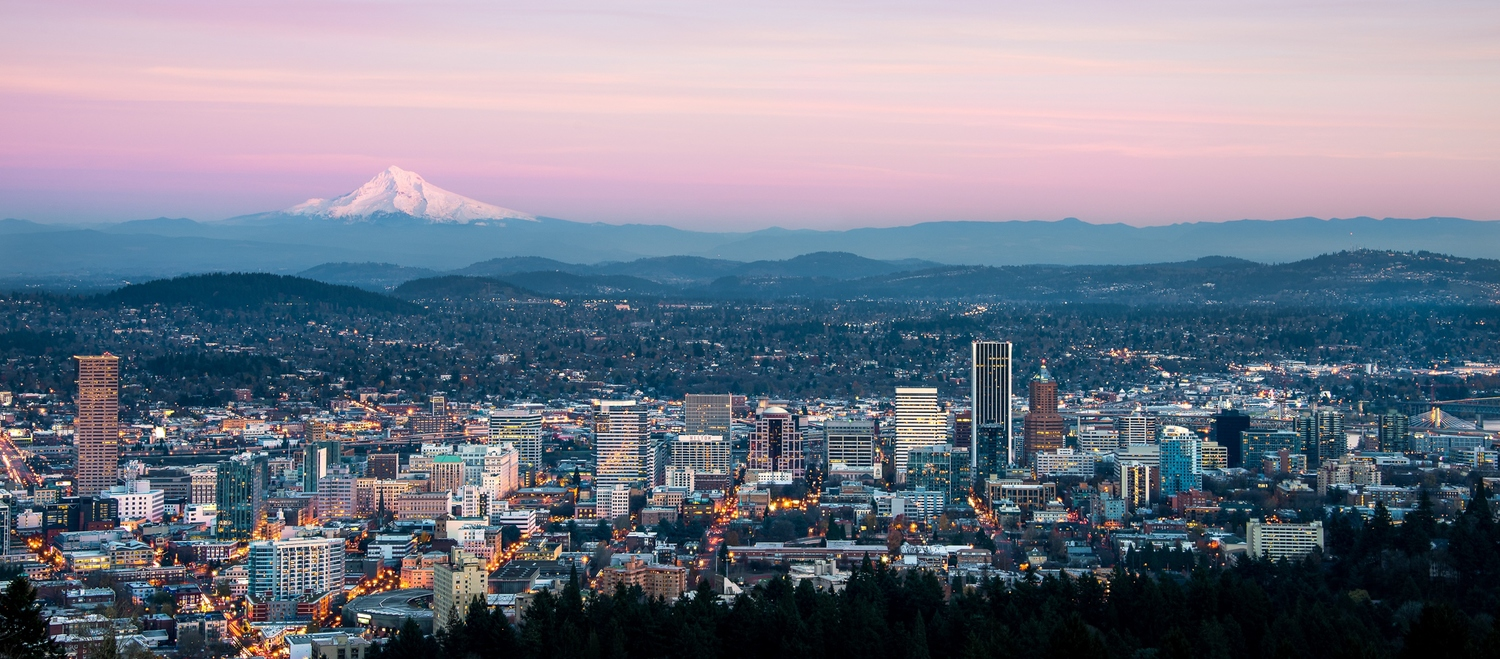
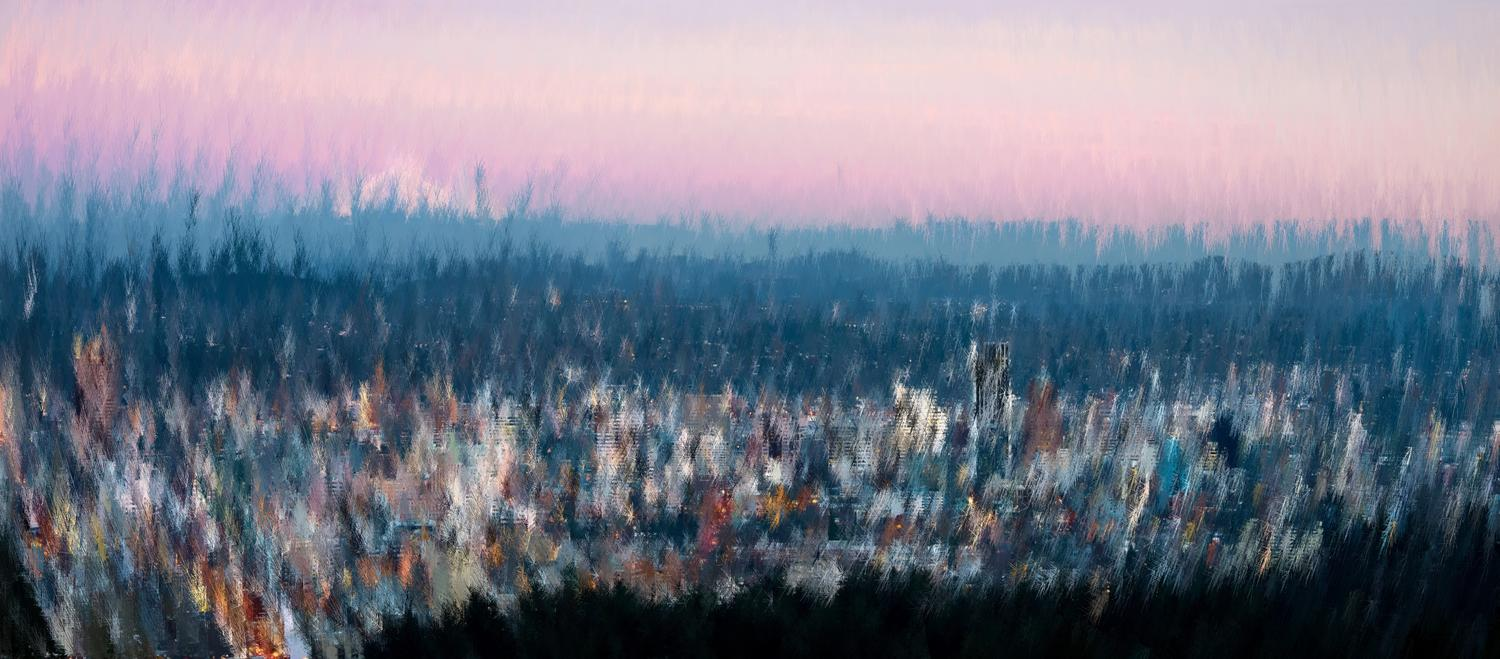
Add sample images and update web interface

diff --git a/htdocs/index.html b/htdocs/index.html
@@ -5,6 +5,9 @@
     <title>Image Fudge</title>
 </head>
 <body>
+    <h1>Original Image</h1>
+    <img src="/static/img/portland.jpg" alt="Original image" />
+    <h1>Manipulated Image</h1>
     <img src="/static/img/preview.jpg" alt="Manipulated image" />
 </body>
 </html>

diff --git a/imagefudge/image_fudge.py b/imagefudge/image_fudge.py
@@ -85,8 +85,8 @@ class FudgeMaker(Fudged):
 
 if __name__ == '__main__':
 
-    img_path = 'htdocs/static/img/portland.jpg'
-    save_path = 'htdocs/static/img/preview.jpg'
+    img_path = 'htdocs/static/img/preview.jpg'
+    save_path = 'htdocs/static/img/portland.jpg'
     fm = FudgeMaker(img_path)
     fm.fuzzy(3)
     fm.save(save_path)
